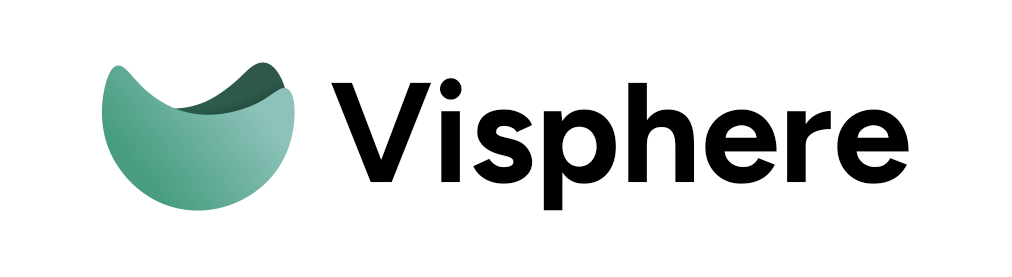
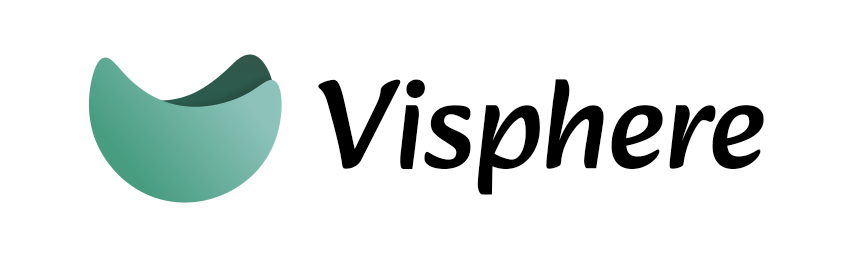
update branding font

Changed region(s): [[0.1522, 0.2213, 0.9133, 0.8024], [0.0913, 0.2213, 0.1522, 0.581], [0.1218, 0.6917, 0.1522, 0.7194]]

diff --git a/README.md b/README.md
@@ -1,4 +1,4 @@
-<img src="https://i.imgur.com/mvXQY8Y.png" width="300px"/>
+<img src="https://i.imgur.com/OGlGrFO.png" width="300px"/>
 
 # Visphere Base
 
